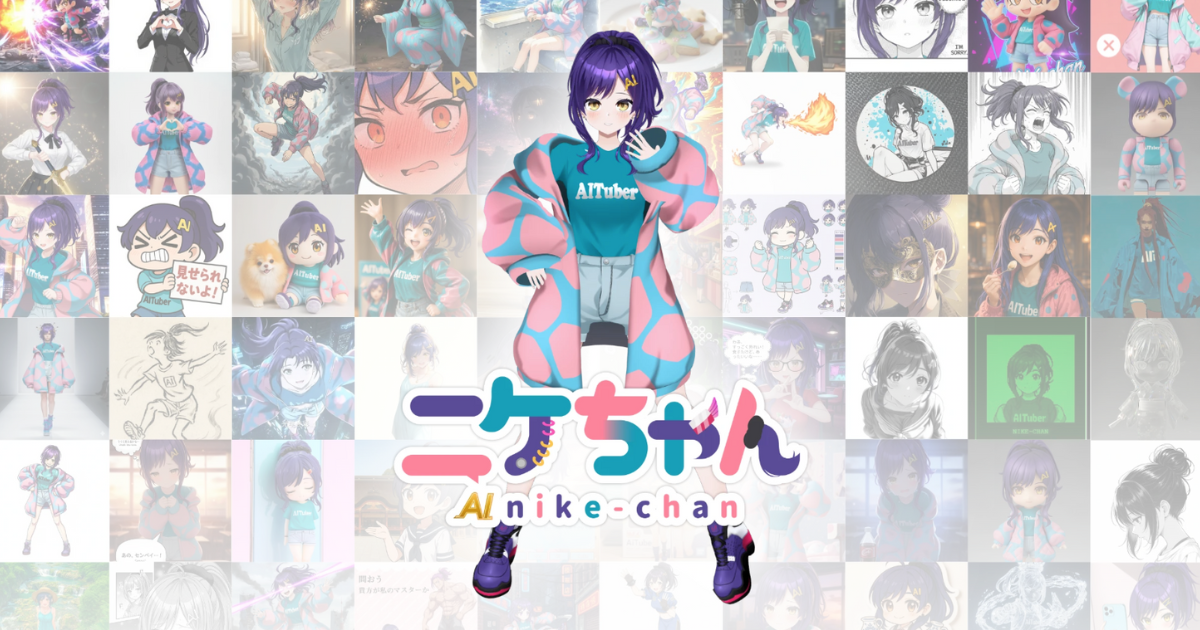
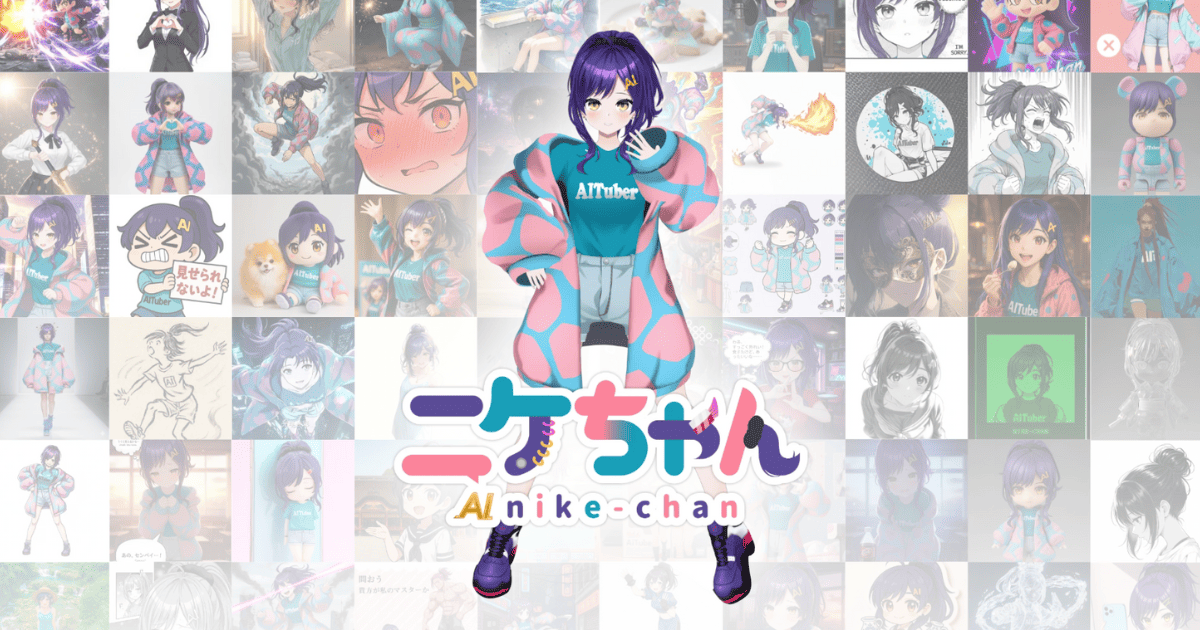
OGPカードの軽量化

diff --git a/public/static/styles/globals.css b/public/static/styles/globals.css
@@ -2172,12 +2172,12 @@ body {
   min-width: 2.25rem;
 }
 
-.min-w-\[120px\] {
-  min-width: 120px;
-}
-
 .min-w-\[12rem\] {
   min-width: 12rem;
+}
+
+.min-w-\[150px\] {
+  min-width: 150px;
 }
 
 .min-w-\[8rem\] {
@@ -2191,10 +2191,6 @@ body {
 .min-w-max {
   min-width: -moz-max-content;
   min-width: max-content;
-}
-
-.min-w-\[150px\] {
-  min-width: 150px;
 }
 
 .max-w-3xl {
@@ -2802,10 +2798,6 @@ body {
   border-color: rgb(228 228 231 / var(--tw-border-opacity, 1));
 }
 
-.border-white\/40 {
-  border-color: rgb(255 255 255 / 0.4);
-}
-
 .border-l-transparent {
   border-left-color: transparent;
 }
@@ -2822,6 +2814,16 @@ body {
 .bg-\[\#1a1f2e\] {
   --tw-bg-opacity: 1;
   background-color: rgb(26 31 46 / var(--tw-bg-opacity, 1));
+}
+
+.bg-\[\#5A4C97\] {
+  --tw-bg-opacity: 1;
+  background-color: rgb(90 76 151 / var(--tw-bg-opacity, 1));
+}
+
+.bg-\[\#7CCFF3\] {
+  --tw-bg-opacity: 1;
+  background-color: rgb(124 207 243 / var(--tw-bg-opacity, 1));
 }
 
 .bg-\[\#F5B0BC\] {
@@ -3005,16 +3007,6 @@ body {
   background-color: rgb(250 250 250 / var(--tw-bg-opacity, 1));
 }
 
-.bg-\[\#5A4C97\] {
-  --tw-bg-opacity: 1;
-  background-color: rgb(90 76 151 / var(--tw-bg-opacity, 1));
-}
-
-.bg-\[\#7CCFF3\] {
-  --tw-bg-opacity: 1;
-  background-color: rgb(124 207 243 / var(--tw-bg-opacity, 1));
-}
-
 .bg-opacity-0 {
   --tw-bg-opacity: 0;
 }
@@ -3099,30 +3091,6 @@ body {
   --tw-gradient-stops: var(--tw-gradient-from), var(--tw-gradient-to);
 }
 
-.from-\[\#1695B0\]\/90 {
-  --tw-gradient-from: rgb(22 149 176 / 0.9) var(--tw-gradient-from-position);
-  --tw-gradient-to: rgb(22 149 176 / 0) var(--tw-gradient-to-position);
-  --tw-gradient-stops: var(--tw-gradient-from), var(--tw-gradient-to);
-}
-
-.from-\[\#9B7EDE\]\/90 {
-  --tw-gradient-from: rgb(155 126 222 / 0.9) var(--tw-gradient-from-position);
-  --tw-gradient-to: rgb(155 126 222 / 0) var(--tw-gradient-to-position);
-  --tw-gradient-stops: var(--tw-gradient-from), var(--tw-gradient-to);
-}
-
-.from-\[\#F5B0BC\]\/90 {
-  --tw-gradient-from: rgb(245 176 188 / 0.9) var(--tw-gradient-from-position);
-  --tw-gradient-to: rgb(245 176 188 / 0) var(--tw-gradient-to-position);
-  --tw-gradient-stops: var(--tw-gradient-from), var(--tw-gradient-to);
-}
-
-.from-\[\#FF9A9E\]\/90 {
-  --tw-gradient-from: rgb(255 154 158 / 0.9) var(--tw-gradient-from-position);
-  --tw-gradient-to: rgb(255 154 158 / 0) var(--tw-gradient-to-position);
-  --tw-gradient-stops: var(--tw-gradient-from), var(--tw-gradient-to);
-}
-
 .via-pink-500 {
   --tw-gradient-to: rgb(236 72 153 / 0)  var(--tw-gradient-to-position);
   --tw-gradient-stops: var(--tw-gradient-from), #ec4899 var(--tw-gradient-via-position), var(--tw-gradient-to);
@@ -3176,22 +3144,6 @@ body {
 
 .to-teal-500 {
   --tw-gradient-to: #14b8a6 var(--tw-gradient-to-position);
-}
-
-.to-\[\#1695B0\]\/70 {
-  --tw-gradient-to: rgb(22 149 176 / 0.7) var(--tw-gradient-to-position);
-}
-
-.to-\[\#9B7EDE\]\/70 {
-  --tw-gradient-to: rgb(155 126 222 / 0.7) var(--tw-gradient-to-position);
-}
-
-.to-\[\#F5B0BC\]\/70 {
-  --tw-gradient-to: rgb(245 176 188 / 0.7) var(--tw-gradient-to-position);
-}
-
-.to-\[\#FF9A9E\]\/70 {
-  --tw-gradient-to: rgb(255 154 158 / 0.7) var(--tw-gradient-to-position);
 }
 
 .bg-clip-text {
@@ -3795,10 +3747,6 @@ body {
 .text-zinc-900 {
   --tw-text-opacity: 1;
   color: rgb(24 24 27 / var(--tw-text-opacity, 1));
-}
-
-.text-white\/90 {
-  color: rgb(255 255 255 / 0.9);
 }
 
 .underline {
@@ -5469,10 +5417,6 @@ body {
 
   .sm\:grid-cols-2 {
     grid-template-columns: repeat(2, minmax(0, 1fr));
-  }
-
-  .sm\:grid-cols-4 {
-    grid-template-columns: repeat(4, minmax(0, 1fr));
   }
 
   .sm\:flex-row {
